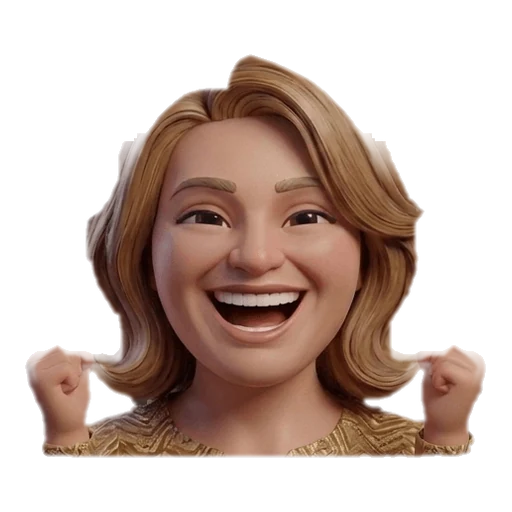
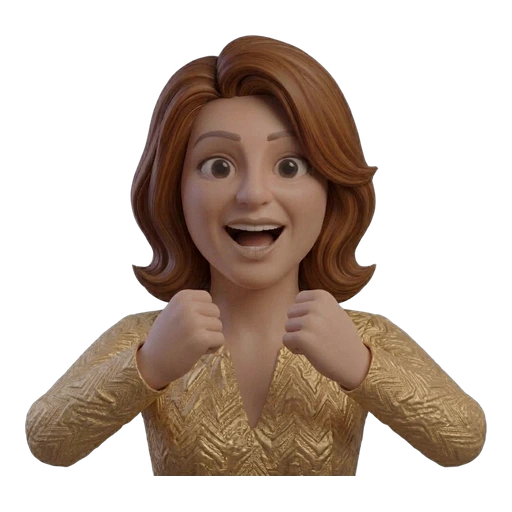
feat: replace mamae happy image with new Meshy render

diff --git a/sw.js b/sw.js
@@ -7,7 +7,7 @@
  *
  * Para publicar arquivos novos ou alterados, aumente VERSION: o cache antigo é apagado.
  */
-const VERSION = 'v3.6.0';
+const VERSION = 'v3.7.0';
 const SHELL_CACHE = 'cpd-shell-' + VERSION;
 const AUDIO_CACHE = 'cpd-audio-v1';
 
